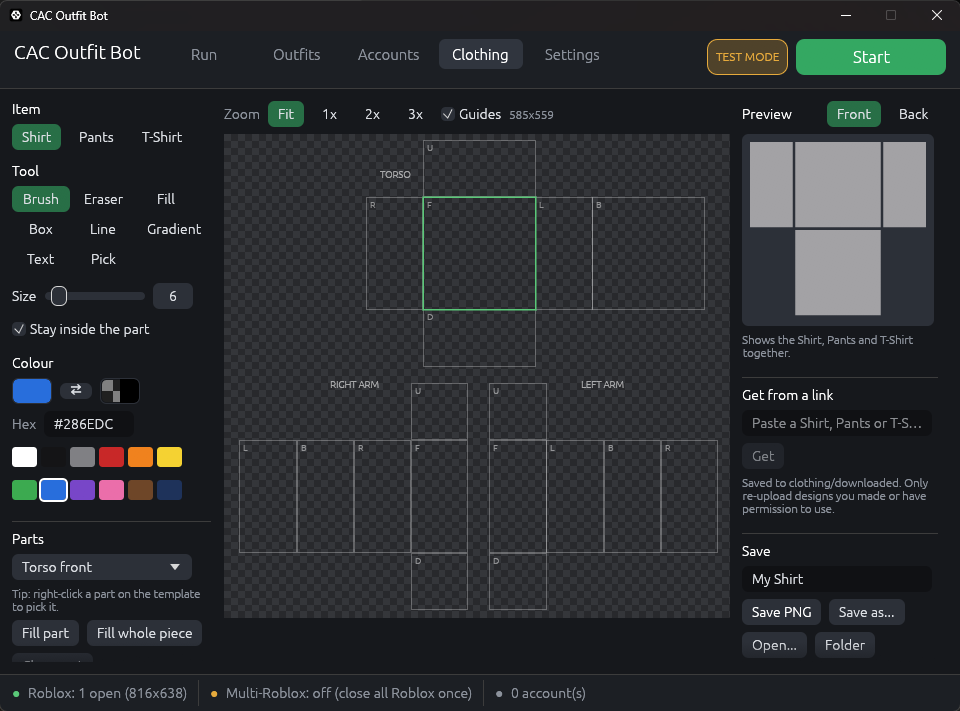
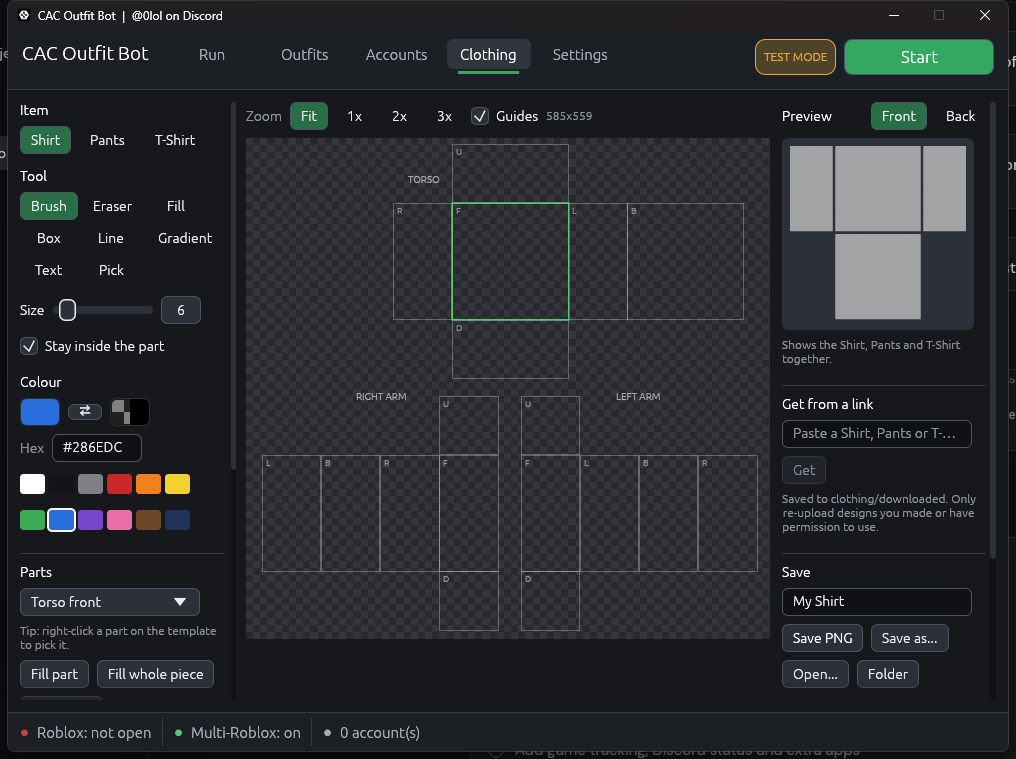
v1.1.0: clearer GUI and Discord credit in the title bar
- Window titles show @0lol on Discord
- Brighter text, outlined buttons, inputs and checkboxes
- Bigger checkboxes and radio buttons, always-visible scrollbars
- Green underline on the current tab, green hover and focus outlines
- Window is 1000x720; Clothing tab panels widened so nothing is cut off
- New screenshots

diff --git a/source/src/main.rs b/source/src/main.rs
@@ -21,19 +21,24 @@ use config::{Config, Mode, Outfit, OutfitsFile, PublishedFile};
 use eframe::egui::{self, Color32, CornerRadius, Margin, RichText, Stroke, Vec2};
 use engine::Shared;
 
-const WIDTH: f32 = 960.0;
-const HEIGHT: f32 = 680.0;
+const WIDTH: f32 = 1000.0;
+const HEIGHT: f32 = 720.0;
+
+/// Shown in every window title.
+pub const TITLE: &str = "CAC Outfit Bot  |  @0lol on Discord";
 
 const BG: Color32 = Color32::from_rgb(22, 24, 28);
 const CARD: Color32 = Color32::from_rgb(31, 34, 40);
-const BORDER: Color32 = Color32::from_rgb(48, 52, 60);
+const BORDER: Color32 = Color32::from_rgb(54, 59, 68);
 const INPUT: Color32 = Color32::from_rgb(16, 17, 20);
 const ACCENT: Color32 = Color32::from_rgb(52, 168, 98);
 const DANGER: Color32 = Color32::from_rgb(200, 64, 64);
 const WARN: Color32 = Color32::from_rgb(230, 170, 60);
 const GOOD: Color32 = Color32::from_rgb(90, 200, 120);
-const MUTED: Color32 = Color32::from_rgb(140, 146, 156);
-const TEXT: Color32 = Color32::from_rgb(220, 223, 228);
+const MUTED: Color32 = Color32::from_rgb(168, 174, 184);
+const TEXT: Color32 = Color32::from_rgb(234, 236, 240);
+/// Outline for buttons, boxes and checkboxes so they stand out from the cards.
+const EDGE: Color32 = Color32::from_rgb(78, 85, 98);
 
 #[derive(PartialEq, Eq, Clone, Copy)]
 enum Tab {
@@ -100,16 +105,21 @@ fn style(ctx: &egui::Context) {
         use egui::{FontId, TextStyle};
         s.visuals = egui::Visuals::dark();
         s.text_styles = [
-            (TextStyle::Heading, FontId::proportional(20.0)),
-            (TextStyle::Body, FontId::proportional(14.0)),
-            (TextStyle::Button, FontId::proportional(14.0)),
-            (TextStyle::Small, FontId::proportional(11.5)),
-            (TextStyle::Monospace, FontId::monospace(12.5)),
+            (TextStyle::Heading, FontId::proportional(21.0)),
+            (TextStyle::Body, FontId::proportional(15.0)),
+            (TextStyle::Button, FontId::proportional(15.0)),
+            (TextStyle::Small, FontId::proportional(12.5)),
+            (TextStyle::Monospace, FontId::monospace(13.0)),
         ]
         .into();
-        s.spacing.item_spacing = Vec2::new(8.0, 7.0);
-        s.spacing.button_padding = Vec2::new(10.0, 5.0);
-        s.spacing.interact_size.y = 26.0;
+        s.spacing.item_spacing = Vec2::new(8.0, 8.0);
+        s.spacing.button_padding = Vec2::new(11.0, 5.0);
+        s.spacing.interact_size.y = 28.0;
+        // Bigger checkboxes and radio buttons, and a scrollbar you can actually see.
+        s.spacing.icon_width = 18.0;
+        s.spacing.icon_width_inner = 10.0;
+        s.spacing.icon_spacing = 7.0;
+        s.spacing.scroll = egui::style::ScrollStyle::solid();
         let v = &mut s.visuals;
         v.panel_fill = BG;
         v.window_fill = CARD;
@@ -126,6 +136,17 @@ fn style(ctx: &egui::Context) {
         v.widgets.inactive.bg_fill = Color32::from_rgb(44, 48, 56);
         v.widgets.hovered.weak_bg_fill = Color32::from_rgb(56, 61, 71);
         v.widgets.hovered.bg_fill = Color32::from_rgb(56, 61, 71);
+        v.widgets.active.weak_bg_fill = Color32::from_rgb(64, 70, 82);
+        v.widgets.active.bg_fill = Color32::from_rgb(64, 70, 82);
+        v.widgets.inactive.bg_stroke = Stroke::new(1.0, EDGE);
+        v.widgets.hovered.bg_stroke = Stroke::new(1.0, ACCENT.gamma_multiply(0.9));
+        v.widgets.active.bg_stroke = Stroke::new(1.5, ACCENT);
+        v.widgets.inactive.fg_stroke = Stroke::new(1.5, TEXT);
+        v.widgets.hovered.fg_stroke = Stroke::new(1.5, Color32::WHITE);
+        v.widgets.active.fg_stroke = Stroke::new(2.0, Color32::WHITE);
+        v.widgets.noninteractive.bg_stroke = Stroke::new(1.0, BORDER);
+        v.widgets.noninteractive.fg_stroke = Stroke::new(1.0, TEXT);
+        v.text_cursor.stroke = Stroke::new(2.0, ACCENT);
     });
 }
 
@@ -139,7 +160,7 @@ fn card<R>(ui: &mut egui::Ui, title: &str, add: impl FnOnce(&mut egui::Ui) -> R)
         .show(ui, |ui| {
             ui.set_width(ui.available_width());
             if !title.is_empty() {
-                ui.label(RichText::new(title).strong().size(15.0));
+                ui.label(RichText::new(title).strong().size(16.5).color(Color32::WHITE));
                 ui.add_space(2.0);
             }
             add(ui)
@@ -391,7 +412,15 @@ impl App {
                     .fill(if selected { Color32::from_rgb(48, 53, 62) } else { Color32::TRANSPARENT })
                     .stroke(Stroke::NONE)
                     .min_size(Vec2::new(84.0, 30.0));
-                if ui.add(b).clicked() {
+                let r = ui.add(b);
+                if selected {
+                    let rect = r.rect;
+                    ui.painter().line_segment(
+                        [egui::pos2(rect.left() + 12.0, rect.bottom() + 3.0), egui::pos2(rect.right() - 12.0, rect.bottom() + 3.0)],
+                        Stroke::new(3.0, ACCENT),
+                    );
+                }
+                if r.clicked() {
                     self.tab = tab;
                 }
             }
@@ -560,7 +589,7 @@ impl App {
 
         card(ui, "", |ui| {
             ui.horizontal(|ui| {
-                ui.label(RichText::new("Log").strong().size(15.0));
+                ui.label(RichText::new("Log").strong().size(16.5).color(Color32::WHITE));
                 ui.with_layout(egui::Layout::right_to_left(egui::Align::Center), |ui| {
                     open_failures = ui.small_button("Open failures folder").clicked();
                     if ui.small_button("Clear").clicked() {
@@ -1198,7 +1227,7 @@ fn main() -> eframe::Result {
             .with_max_inner_size([WIDTH, HEIGHT])
             .with_resizable(false)
             .with_maximize_button(false)
-            .with_title("CAC Outfit Bot"),
+            .with_title(TITLE),
         ..Default::default()
     };
     eframe::run_native("CAC Outfit Bot", options, Box::new(|cc| Ok(Box::new(App::new(cc)))))

diff --git a/source/src/clothing.rs b/source/src/clothing.rs
@@ -590,8 +590,14 @@ impl Studio {
         self.handle_drops(ui.ctx());
         self.poll_link(data_dir);
         self.shortcuts(ui.ctx());
+        // The studio packs a lot of tools in, so it keeps slightly smaller text than the other tabs.
+        for (style, size) in [(egui::TextStyle::Body, 14.0), (egui::TextStyle::Button, 14.0), (egui::TextStyle::Small, 12.0)] {
+            if let Some(f) = ui.style_mut().text_styles.get_mut(&style) {
+                f.size = size;
+            }
+        }
         let area = ui.available_rect_before_wrap();
-        let (lw, rw, gap) = (200.0, 206.0, 12.0);
+        let (lw, rw, gap) = (214.0, 214.0, 12.0);
         let left = Rect::from_min_size(area.min, vec2(lw, area.height()));
         let right = Rect::from_min_max(pos2(area.max.x - rw, area.min.y), area.max);
         let mid = Rect::from_min_max(pos2(left.max.x + gap, area.min.y), pos2(right.min.x - gap, area.max.y));

diff --git a/source/src/accounts.rs b/source/src/accounts.rs
@@ -433,7 +433,7 @@ pub fn login_window_main(dir: &Path) -> ! {
 
     let event_loop = EventLoop::new();
     let window = WindowBuilder::new()
-        .with_title("Sign in to Roblox - CAC Outfit Bot")
+        .with_title("Sign in to Roblox  |  CAC Outfit Bot  |  @0lol on Discord")
         .with_inner_size(tao::dpi::LogicalSize::new(520.0, 760.0))
         .build(&event_loop)
         .expect("window");
